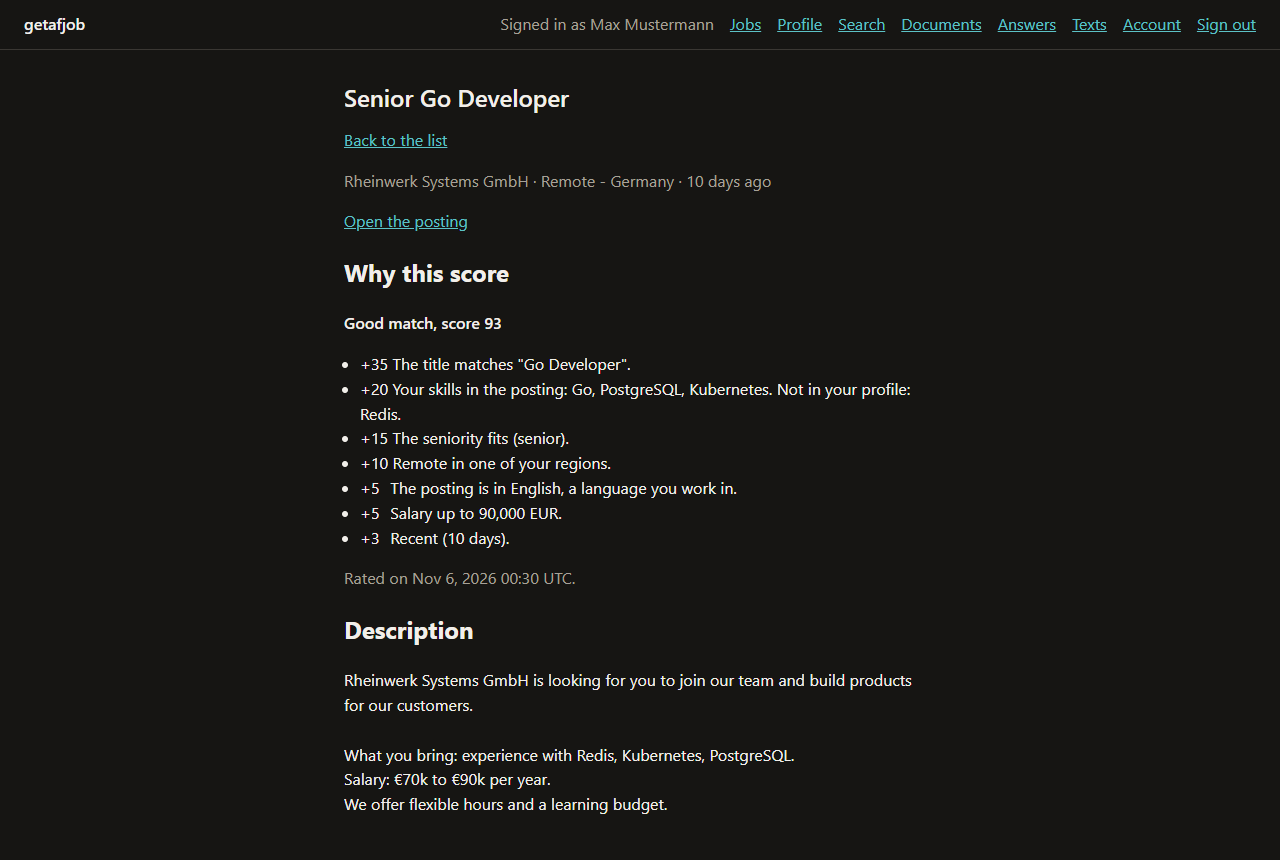
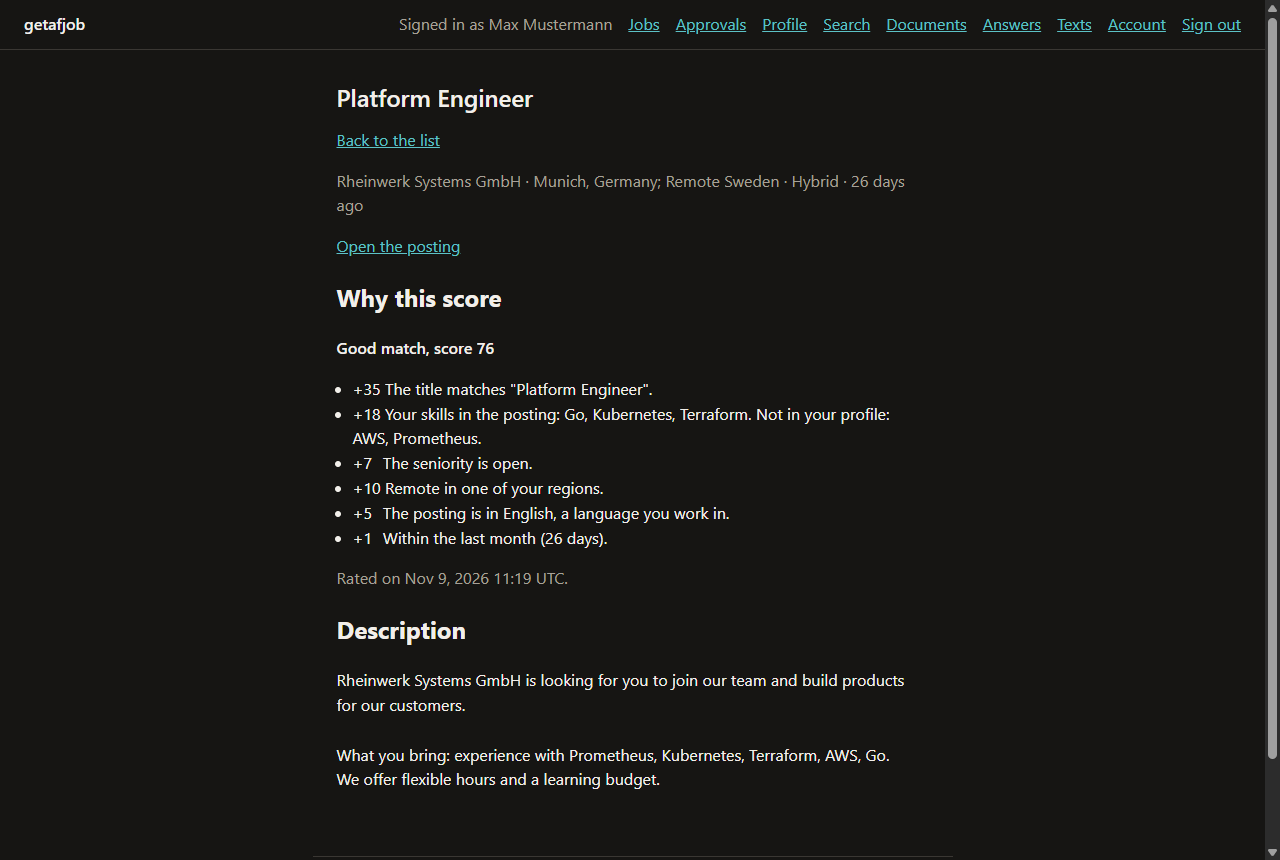
docs: refresh README with features, architecture and UI screenshots
Update README to reflect all completed phases and include multiple UI views.

diff --git a/README.md b/README.md
@@ -2,7 +2,9 @@
 
 # getafjob
 
-Collects job postings, ranks them per user and fills out applications in a real browser.
+**Autonomous job search and application engine written in Go.**
+
+Collects job postings, scores them per candidate profile, and fills out application forms in a real sandboxed Chromium browser with human approval gates.
 
 [![CI](https://github.com/1xxn/getafjob/actions/workflows/ci.yml/badge.svg?branch=main)](https://github.com/1xxn/getafjob/actions/workflows/ci.yml)
 [![CodeQL](https://github.com/1xxn/getafjob/actions/workflows/codeql.yml/badge.svg?branch=main)](https://github.com/1xxn/getafjob/actions/workflows/codeql.yml)
@@ -12,119 +14,308 @@ Collects job postings, ranks them per user and fills out applications in a real 
 [![Go version](https://img.shields.io/github/go-mod/go-version/1xxn/getafjob?logo=go&logoColor=white)](go.mod)
 [![License: MIT](https://img.shields.io/github/license/1xxn/getafjob)](LICENSE)
 
-[Features](#features) · [How it works](#how-it-works) · [Quickstart](#quickstart) · [Roadmap](#roadmap) ·
-[Architecture](docs/architecture.md) · [Security](docs/security.md)
+[Features](#features) · [Screenshots](#screenshots) · [How It Works](#how-it-works) · [Quickstart](#quickstart) · [Administration CLI](#administration-cli) · [Operations](#operations) · [Security & Privacy](#security--privacy) · [Roadmap](#roadmap)
 
 </div>
 
-> [!NOTE]
-> Early development. Phase 0 (foundation) is complete; getafjob does not apply to jobs yet. See the
-> [roadmap](#roadmap) and the [project board](https://github.com/users/1xxn/projects/1).
+---
+
+## Overview
+
+`getafjob` is a self-hosted, multi-user automation platform that handles the repetitive mechanics of job seeking. It crawls public ATS boards and job feeds, ranks openings deterministically against your structured profile, and drives a real headless browser to fill out multi-step application forms without submitting duplicates or generating unreviewed content.
+
+### Core Principles
+- **No Cover Letters:** Enforced strictly across the pipeline. We do not generate, template, or attach cover letters.
+- **Full Traceability:** Every filled field is linked to an explicit fact in your profile or an approved answer bank entry.
+- **Zero Stealth / No Bot Disguise:** No browser fingerprint spoofing, no CAPTCHA-solving sweatshops. Bot challenges and 2FA prompts route directly to an interactive remote browser window for human completion.
+- **Defense in Depth:** Outbound network requests pass through an SSRF-filtering egress proxy; browser sessions run inside dedicated unprivileged Linux containers with seccomp filtering; multi-tenant database access is isolated by PostgreSQL Row-Level Security.
+
+---
 
 ## Features
 
-- **Job collection** from ATS boards (Greenhouse, Lever, Ashby, Workday, SmartRecruiters, Personio, Recruitee,
-  Workable, Eightfold), job boards (Arbeitnow, Himalayas, Bundesagentur für Arbeit), the career sites of Google,
-  Apple, Amazon and Meta, and careers pages with schema.org `JobPosting`, in one deduplicated index with history. A built-in catalog lists tech
-  employers with remote or Germany jobs, each checked against its live API.
-- **Ranking per user** with reasons: role, seniority, skills, location and remote, language, salary, recency.
-- **Applications in a real browser** with go-rod and Chromium, including iframes, shadow DOM, custom selects,
-  drop zones and multi-step forms.
-- **Traceable values.** Every form value names its source, and every application keeps its evidence: values,
-  sources, a screenshot before submitting and the confirmation page.
-- **No duplicate submissions.** A submit register in the database allows one submission per application.
-- **Checks stay with people.** CAPTCHAs, bot checks and security codes are handed to the user in a remote browser
-  view. No stealth plugins, no fingerprint spoofing, no CAPTCHA services.
-- **Autonomy levels** per user: suggest, fill in and wait for approval (default), or apply by rule.
-- **Multi-user and self-hosted**: invite-only, passkeys, row-level security, encrypted documents, isolated browser
-  runners behind an egress proxy.
-- **AI is optional.** Everything works without it; an optional module uses the Anthropic API per user.
+- **Broad ATS & Board Collection:**
+  - Native API & scrapers for 10+ ATS platforms: Greenhouse, Ashby, Lever, Workday, SmartRecruiters, Personio, Recruitee, Workable, Teamtailor, and Eightfold.
+  - Job boards & public search: Bundesagentur für Arbeit, Arbeitnow, Himalayas, and public portal search for LinkedIn, Indeed, and Glassdoor.
+  - Automatic detection of schema.org `JobPosting` and sitemaps on custom company career sites.
+  - Built-in tech employer catalog, conditional ETag requests, and deduplication into a unified index.
 
-## How it works
+- **Deterministic Scoring Engine:**
+  - Evaluates postings against target titles, seniority, skills, locations, remote region preferences, work authorization, salary expectations, and language proficiencies.
+  - Every match score is accompanied by a transparent, point-by-point breakdown explaining exactly why a posting ranked high or low.
 
-```mermaid
-flowchart LR
-  A[Collect] --> B[Deduplicate] --> C[Rank per user] --> D{Rule}
-  D -- passes --> E[Fill in browser] --> F[Submit] --> G[Confirmation] --> H[Inbox] --> I[Status and notification]
-  D -- fails --> J[Approval list] --> E
-  E -. CAPTCHA, code, question .-> K((User in remote browser)) -.-> E
-```
+- **Real Browser Automation:**
+  - Headless Chromium controlled via `go-rod` inside hardened runner containers.
+  - Handles nested and out-of-process iframes (OOPIF), Shadow DOM, custom ARIA widgets (`role="combobox"`, `role="listbox"`, toggles), drag-and-drop file upload zones, and multi-step wizard flows.
+  - Centralized **submit register** enforcing at most one submission per application to prevent accidental duplicate applications.
 
-One Go binary runs as `serve` (web UI, API, runner gateway), `worker` (queue jobs), `runner` (Chromium, no
-database access), `migrate` and `admin`. PostgreSQL 18, Caddy and an egress proxy complete the Docker Compose stack.
-The web UI is rendered on the server with templ and works without JavaScript; htmx 4 adds partial updates and live
-status under a strict CSP with Trusted Types.
-Design decisions are recorded as [ADRs](docs/adr/README.md).
+- **Configurable Autonomy & Approvals:**
+  - Three distinct autonomy tiers:
+    - `suggest`: Discovers and scores jobs; candidate triggers runs manually.
+    - `approve` *(Default)*: Automatically prepares and fills forms, then halts at `BeginSubmit` for review in the approval queue.
+    - `autonomous`: Submits automatically only when all 11 green rules pass (verified board, score threshold, salary fit, known fields).
+  - Web approval queue (`/approvals`) for inspecting form values, attached documents, and confidence metrics before giving the final submit click.
+
+- **Interactive Remote Screencast:**
+  - Live low-latency WebSocket screencast (`/applications/{id}`) to interact with the runner browser when CAPTCHAs, bot challenges, or email verification codes appear.
+
+- **Status Tracking & Pacing:**
+  - RFC 3501 read-only IMAP tracking worker to detect confirmation emails, status changes, and interview invitations without reading private emails.
+  - Rate limiting, daily submission quotas (default max 5/day), host gap throttling, and quiet-hours enforcement.
+  - Multi-channel notification delivery: Web Push (RFC 8291/8292 VAPID), SMTP email, and ntfy.
+
+- **Security & Multi-Tenancy:**
+  - Passwordless authentication with Passkeys (WebAuthn / FIDO2) and delayed recovery magic links.
+  - PostgreSQL Row-Level Security (RLS) on all tenant tables, audited by automated architecture tests.
+  - Envelope encryption (`crypto.Envelope`) using per-user keys for sensitive documents and stored portal sessions.
+  - Full GDPR compliance: Art. 17 right to erasure with cryptographic key shredding (`Forget`), Art. 20 ZIP data portability export, and automated 90-day screenshot retention pruning.
+
+---
 
 ## Screenshots
 
-The job list ranks open jobs per user; the detail explains every point of the score. Shown with invented demo data
-(`getafjob admin demo`).
+All screens rendered from invented demo data (`getafjob admin demo`) using server-side templates with `templ` and `htmx 4` under a strict Content Security Policy.
 
-<p>
-  <img src="docs/images/job-list.png" alt="Job list with search, filters and scored jobs" width="49%">
-  <img src="docs/images/job-detail.png" alt="Job detail with the reasons behind the score" width="49%">
+<p align="center">
+  <img src="docs/images/job-list.png" alt="Scored Job Feed" width="49%">
+  <img src="docs/images/job-detail.png" alt="Score Breakdown & Reasons" width="49%">
 </p>
+<p align="center">
+  <em>Left: Scored job feed with search, workplace filters, and match categories.<br>
+  Right: Transparent score breakdown showing positive and negative weighting factors.</em>
+</p>
+
+<p align="center">
+  <img src="docs/images/approvals.png" alt="Human Approval Queue" width="49%">
+  <img src="docs/images/preferences.png" alt="Search Preferences & Autonomy Settings" width="49%">
+</p>
+<p align="center">
+  <em>Left: Approval list holding pre-filled applications for human sign-off before submit.<br>
+  Right: Search preferences, title exclusions, remote regions, and autonomy level configuration.</em>
+</p>
+
+<p align="center">
+  <img src="docs/images/evidence.png" alt="Application Screen & Live Evidence" width="60%">
+</p>
+<p align="center">
+  <em>Application evidence view with interactive remote browser frame and human-in-the-loop controls.</em>
+</p>
+
+---
+
+## How It Works
+
+```mermaid
+flowchart TD
+  subgraph Discovery
+    A[Public Boards & ATS APIs] --> C[Deduplication & Indexer]
+    B[Careers Pages / Portals] --> C
+  end
+
+  subgraph Matching
+    C --> D[Matching Engine]
+    P[(Candidate Profile)] --> D
+    D --> E{Autonomy Level}
+  end
+
+  subgraph Execution
+    E -- suggest --> F[Job List]
+    E -- approve / rule fail --> G[Approval Queue /approvals]
+    E -- autonomous green rule --> H[Runner Gateway]
+    G -- User Approves --> H
+    H --> I[Sandboxed Chromium Runner]
+    I -. CAPTCHA / 2FA .-> J((Interactive Remote Browser))
+    J -. Human Solves .-> I
+    I --> K[Submit Register Check]
+    K --> L[Submit & Capture Evidence]
+  end
+
+  subgraph Feedback
+    L --> M[IMAP Tracker & Webhooks]
+    M --> N[Status Dashboard & Notifications]
+  end
+```
+
+### Binary Architecture
+`getafjob` compiles into a single static Go binary with subcommands:
+- `serve`: Web interface, HTTP API, and gRPC runner gateway.
+- `worker`: Background River job queue processing crawls, matching passes, IMAP tracking, and retention cleanups.
+- `runner`: Outbound-only browser execution agent driving headless Chromium. Operates with zero database access.
+- `migrate`: Database schema migration tool (runs with database owner privileges).
+- `admin`: Operational CLI for user invitations, demo seeding, load testing, and maintenance.
+
+### Network Topology
+```mermaid
+flowchart LR
+  User([User / Browser]) -->|HTTPS:8443| Caddy[Caddy Reverse Proxy]
+  Caddy -->|HTTP| Serve[getafjob serve]
+  Serve -->|TCP:5432 / RLS| DB[(PostgreSQL 18)]
+  Worker[getafjob worker] -->|TCP:5432| DB
+  Serve <-->|gRPC:50051| Runner[getafjob runner]
+  Runner -->|HTTP/HTTPS Proxy| Egress[getafjob-egress proxy]
+  Worker -->|HTTP/HTTPS Proxy| Egress
+  Egress -->|Filtered WAN| Internet((Public Internet))
+```
+
+---
 
 ## Quickstart
 
-Requirements: Go 1.27.3 and Docker with Compose. All other tools are pinned in `go.mod` and run with `go tool`.
+### Prerequisites
+- **Go 1.27.3+**
+- **Docker** with **Docker Compose v2**
+- All development and build tools are pinned in `go.mod` and run via `go tool task`.
 
+### 1. Clone & Start Local Development Stack
 ```bash
-git clone https://github.com/1xxn/getafjob.git && cd getafjob
-go tool task dev:up       # creates dev secrets, builds images, starts all services and waits until they are healthy
-curl -k https://localhost:8443/api/v1/meta
-go tool task dev:down
+git clone https://github.com/1xxn/getafjob.git
+cd getafjob
+
+# Creates dev secrets, builds container images, and starts all services
+go tool task dev:up
+
+# Verify health endpoint
+curl -k https://localhost:8443/healthz
 ```
 
-The first account needs an invitation. Locally all mail lands in Mailpit (http://127.0.0.1:8025):
-
+### 2. Create Initial Admin Account
+All local development emails are captured by the built-in Mailpit instance (`http://127.0.0.1:8025`).
 ```bash
-docker compose -f deploy/compose.yaml exec serve getafjob admin invite -email max.mustermann@example.com -role admin -send
+docker compose -f deploy/compose.yaml exec serve \
+  getafjob admin invite -email max.mustermann@example.com -role admin -send
 ```
+Open Mailpit in your browser, click the invitation link, choose your display name, and register your passkey.
 
-For a filled UI without crawling, create invented users (sign in with a mail link) and 2000 invented jobs:
-
+### 3. Seed Synthetic Demo Data
+To explore the complete UI immediately without waiting for background crawls:
 ```bash
-docker compose -f deploy/compose.yaml exec serve getafjob admin demo
+docker compose -f deploy/compose.yaml exec serve \
+  getafjob admin demo -jobs 2000
 ```
+This populates the database with 2,000 synthetic job listings and matches them against demo candidate profiles.
 
-The worker crawls every 6 hours (`GETAFJOB_CRAWL_INTERVAL`). Add the built-in company boards and start a crawl now:
-
+### 4. Trigger Discovery Crawl
 ```bash
+# Import the built-in tech employer catalog
 docker compose -f deploy/compose.yaml exec worker getafjob admin boards import
+
+# Trigger an immediate crawl run
 docker compose -f deploy/compose.yaml exec worker getafjob admin crawl
 ```
 
-## Development
-
+To stop the development environment:
 ```bash
-go tool task --list         # all commands
-go tool task check          # fmt, vet, golangci-lint, tests with -race, govulncheck, generated code
-go tool task test:browser   # browser tests inside the runner image (Chromium sandbox on)
-go tool task hooks          # git hooks (lefthook)
+go tool task dev:down
 ```
 
-See [CONTRIBUTING.md](CONTRIBUTING.md): fictional data only, Conventional Commits, one focused pull request per
-issue.
+---
+
+## Administration CLI
+
+The binary includes administrative commands for cluster and operational maintenance:
+
+```bash
+# Seed development data with synthetic profiles
+getafjob admin demo [-jobs 2000] [-seed 1]
+
+# Issue account invitations
+getafjob admin invite -email <addr> -role <admin|user> [-send]
+
+# Import or sync company boards
+getafjob admin boards import
+getafjob admin crawl [-sources greenhouse,ashby,lever]
+
+# User privacy & GDPR operations
+getafjob admin export-user -email <addr> -out <export.zip>
+getafjob admin delete-user -email <addr>
+
+# System maintenance & retention pruning
+getafjob admin cleanup
+
+# Load testing against SLOs
+getafjob admin load-test -url https://localhost:8443 -users 10 -duration 30s
+```
+
+---
+
+## Operations
+
+### Observability
+The stack provides an integrated Prometheus, Grafana, Loki, and Tempo profile for distributed tracing and performance metrics:
+
+```bash
+# Launch the observability profile (Grafana on http://localhost:3000)
+go tool task obs:up
+
+# Generate concurrent synthetic load to verify dashboard SLOs
+go tool task obs:load
+
+# View service logs
+go tool task obs:logs
+```
+
+Key monitored metrics include:
+- `getafjob.run.step.duration`: Step latency histogram partitioned by ATS adapter and step (`prepare`, `extract`, `plan`, `execute`, `verify`, `submit`).
+- `getafjob.ats.maturity`: Adapter success rate and readiness tracker.
+- `getafjob.http.server.duration`: Endpoint latency tracking the p95 < 200 ms dashboard SLO.
+
+### Backups & Disaster Recovery
+Automated client-side encrypted backups using `restic`:
+```bash
+# Create an encrypted snapshot of PostgreSQL and blob store volumes
+go tool task backup
+
+# Rehearse recovery drill against a throwaway container
+go tool task test:restore
+```
+Runbook available at [`docs/runbooks/backup-restore.md`](docs/runbooks/backup-restore.md).
+
+---
+
+## Security & Privacy
+
+- **OWASP ASVS Verification:** Fully audited against OWASP ASVS 4.0/5.0 Level 2 in [`docs/security.md`](docs/security.md).
+- **Tenant Isolation:** Enforced via PostgreSQL Row-Level Security (`current_setting('app.current_user_id')`) and tested in CI via [`internal/archtest`](internal/archtest).
+- **Cryptographic Erasure (GDPR Art. 17):** Account deletion zeros and destroys the user's master key envelope (`crypto.Envelope.Forget`), rendering all historical backups mathematically unreadable.
+- **SSRF Defense:** All external crawls and browser runner traffic are mediated by `netguard` and `getafjob-egress`, strictly blocking loopback (`127.0.0.1`), RFC 1918 private subnets, and cloud metadata endpoints (`169.254.169.254`).
+- **Chromium Sandboxing:** Runner containers drop all Linux capabilities (`cap_drop: [ALL]`), enforce `no-new-privileges`, and run with a custom seccomp profile (`deploy/seccomp/chromium.json`).
+
+Please report security issues responsibly per [`SECURITY.md`](SECURITY.md).
+
+---
 
 ## Roadmap
 
-| Phase | Scope | Status |
-|---|---|---|
-| [0: Foundation](https://github.com/1xxn/getafjob/milestone/1) | binary, Compose stack, CI/CD, docs, go-rod spike | done |
-| [1: Users, profile, jobs](https://github.com/1xxn/getafjob/milestone/2) | identity, profile, discovery, matching, UI | in progress |
-| [2: Applying](https://github.com/1xxn/getafjob/milestone/3) | runner engine, ATS adapters, remote browser, evidence | planned |
-| [3: Autonomy](https://github.com/1xxn/getafjob/milestone/4) | rules, quotas, inbox tracking, notifications, extension | planned |
-| [4: Portals, AI, hardening](https://github.com/1xxn/getafjob/milestone/5) | portal search, optional AI, ASVS review, deploy | planned |
-| [5: Live test](https://github.com/1xxn/getafjob/milestone/6) | dry runs and supervised real applications | planned |
+All planned milestone phases have been completed and verified:
 
-## Security
+| Phase | Milestone | Scope | Status |
+|---|---|---|---|
+| [Phase 0](https://github.com/1xxn/getafjob/milestone/1) | **Foundation** | Single binary, Compose stack, CI/CD, threat model, go-rod spike | ✅ Done |
+| [Phase 1](https://github.com/1xxn/getafjob/milestone/2) | **Users, Profile, Jobs** | Passkeys, magic links, RLS, discovery index, deterministic matching, web UI | ✅ Done |
+| [Phase 2](https://github.com/1xxn/getafjob/milestone/3) | **Applying** | State machine, submit register, 8 primary ATS adapters, Chromium runner | ✅ Done |
+| [Phase 3](https://github.com/1xxn/getafjob/milestone/4) | **Autonomy** | Autonomy tiers, pacing, approval queue, IMAP tracking, notifications, MV3 extension | ✅ Done |
+| [Phase 4](https://github.com/1xxn/getafjob/milestone/5) | **Portals & Hardening** | Easy Apply, optional AI helper, ASVS L2, load testing, encrypted backups, deploy pipeline | ✅ Done |
+| [Phase 5](https://github.com/1xxn/getafjob/milestone/6) | **Live Test & Dry Runs** | 22 browser dry runs across all ATS adapters, 0 leaks, comprehensive report | ✅ Done |
 
-Images and releases are signed (cosign) and ship with an SBOM and build provenance. Dependencies and actions are
-pinned; CodeQL, Trivy and govulncheck run on every pull request. Threat model: [docs/security.md](docs/security.md).
-Please report vulnerabilities privately, see [SECURITY.md](SECURITY.md).
+See [`docs/reports/phase-5-live-test.md`](docs/reports/phase-5-live-test.md) for the live testing report.
+
+---
+
+## Development
+
+All standard tasks are orchestrated through `Taskfile.yml`:
+
+```bash
+go tool task check          # fmt, vet, golangci-lint, tests with -race, govulncheck, diff
+go tool task test:short     # Fast unit test pass
+go tool task test:browser   # Browser test suite inside runner image with seccomp sandbox
+go tool task generate       # Re-run buf, oapi-codegen, templ, and sqlc generators
+```
+
+Contributions must follow the rules in [`CONTRIBUTING.md`](CONTRIBUTING.md): fictional candidate data only, Conventional Commits, and verified quality gates.
+
+---
 
 ## License
 
-[MIT](LICENSE). Third-party notices: [THIRD_PARTY_NOTICES](THIRD_PARTY_NOTICES).
+[MIT](LICENSE). Third-party software notices are cataloged in [THIRD_PARTY_NOTICES](THIRD_PARTY_NOTICES).
